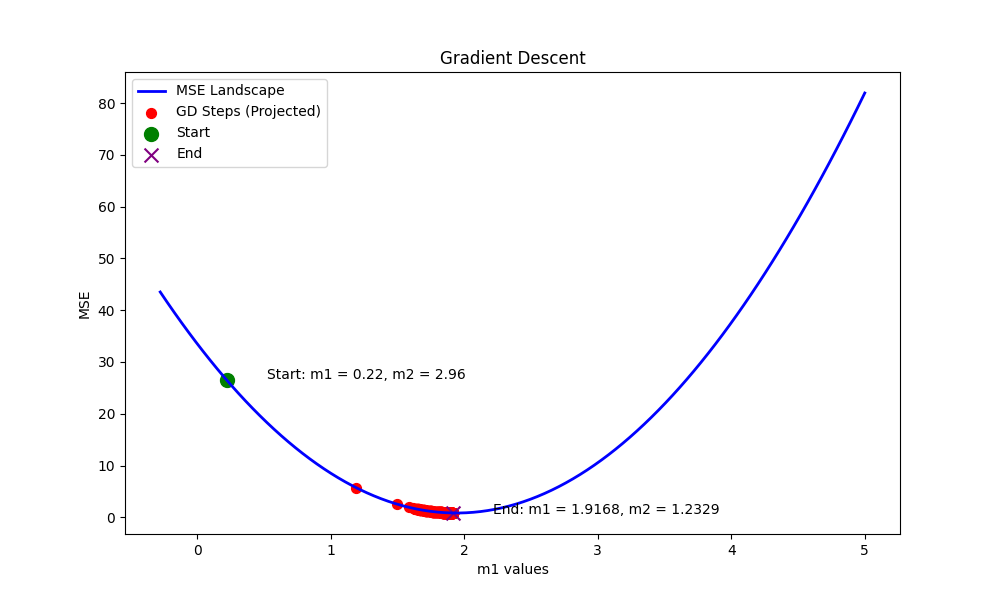
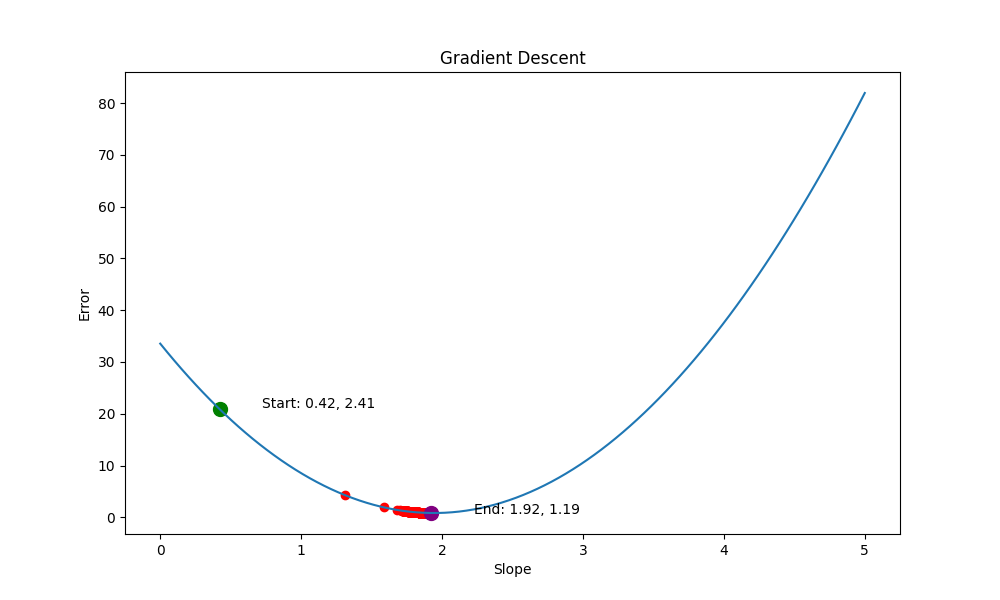
Updated Code

diff --git a/app.py b/app.py
@@ -1,158 +1,135 @@
 import numpy as np
 import matplotlib.pyplot as plt
 
-def generate_data(n_samples=100, m1_true=2.0, m2_true=1.0, random_seed=42):
-    # Data with equation y = m1*x + m2 + noise
-    np.random.seed(random_seed)
-    x = np.linspace(0, 10, n_samples)
-    noise = np.random.normal(0, 1, n_samples)
-    y = m1_true * x + m2_true + noise
+def make_data(size=100, slope=2.0, intercept=1.0, seed=42):
+    # Make data with y = slope*x + intercept + noise
+    np.random.seed(seed)
+    x = np.linspace(0, 10, size)
+    noise = np.random.normal(0, 1, size)
+    y = slope * x + intercept + noise
     return x, y
 
-def calculate_mse(x, y, m1, m2):
-    # Calculating MSE
-    y_pred = m1 * x + m2
-    return np.mean((y - y_pred) ** 2)
+def calc_error(x, y, slope, intercept):
+    # Get mean squared error
+    pred = slope * x + intercept
+    return np.mean((y - pred) ** 2)
 
-def plot_linear_search(x, y, m1_range = 0, num_points=100):
-    # Plotting MSE
-    m1_range = np.linspace(0, 5, num_points)
+def plot_search(x, y, points=100):
+    # Search through slope values and plot MSE
+    slopes = np.linspace(0, 5, points)
     
-    # Calculating optimal m2
-    m2_values = np.array([np.mean(y - m1 * x) for m1 in m1_range])
+    # Get best intercept for each slope
+    intercepts = [np.mean(y - m * x) for m in slopes]
+    errors = [calc_error(x, y, m, b) for m, b in zip(slopes, intercepts)]
     
-    # Calculating MSE for each (m1, m2) pair
-    mse_values = np.array([calculate_mse(x, y, m1, m2) 
-                          for m1, m2 in zip(m1_range, m2_values)])
+    # Find best values
+    best_idx = np.argmin(errors)
+    best_slope = slopes[best_idx]
+    best_intercept = intercepts[best_idx]
+    best_error = errors[best_idx]
     
-    best_idx = np.argmin(mse_values)
-    best_m1 = m1_range[best_idx]
-    best_m2 = m2_values[best_idx]
-    min_loss = mse_values[best_idx]
-    
-    # Plot Creation
+    # Plotting
     plt.figure(figsize=(10, 6))
-    plt.plot(m1_range, mse_values, 'b-', linewidth=2)
-    plt.scatter(best_m1, min_loss, color='red', s=100, marker='o')
-    plt.annotate(f'Best m1 = {best_m1:.4f}, m2 = {best_m2:.4f}, MSE = {min_loss:.4f}',
-                 xy=(best_m1, min_loss),
-                 xytext=(best_m1 + 0.5, min_loss + 0.1))
+    plt.plot(slopes, errors)
+    plt.scatter(best_slope, best_error, color='red', s=100)
+    plt.text(best_slope + 0.5, best_error + 0.1, 
+             f'Best: {best_slope:.2f}, {best_intercept:.2f}, MSE: {best_error:.2f}')
     
-    plt.xlabel('m1 values')
-    plt.ylabel('MSE')
+    plt.xlabel('Slope')
+    plt.ylabel('Error')
     plt.title('Linear Search')
     plt.savefig('linear_search_graph.png')
     plt.show()
     
-    return best_m1, best_m2, min_loss
+    return best_slope, best_intercept, best_error
 
-def optimal_m2_for_m1(x, y, m1):
-    # Calculating optimal m2
-    return np.mean(y - m1 * x)
+def best_intercept(x, y, slope):
+    # Get best intercept for given slope
+    return np.mean(y - slope * x)
 
-def create_mse_landscape(x, y, m1_range):
-    # Plotting MSE
-    m2_optimal = np.array([optimal_m2_for_m1(x, y, m1) for m1 in m1_range])
-    mse_values = np.array([calculate_mse(x, y, m1, m2) for m1, m2 in zip(m1_range, m2_optimal)])
-    return m2_optimal, mse_values
-
-def plot_gradient_descent(x, y, initial_m1, initial_m2, learning_rate=0.01, max_iterations=200):
-
-    initial_m1 = np.random.uniform(0, 3)
-    initial_m2 = np.random.uniform(0, 3)
+def plot_gradient_descent(x, y, learn_rate=0.01, max_iter=200):
+    # Random starting point
+    slope = np.random.uniform(0, 3)
+    intercept = np.random.uniform(0, 3)
     
-    # Initializing parameters
-    m1, m2 = initial_m1, initial_m2
+    slope_history = [slope]
+    intercept_history = [intercept]
+    error_history = [calc_error(x, y, slope, intercept)]
     
-    # Trajectory
-    m1_history = [m1]
-    m2_history = [m2]
-    mse_history = [calculate_mse(x, y, m1, m2)]
+    # Gradient descent
+    iter_count = 0
+    for i in range(max_iter):
+        iter_count += 1
+        
+        # Get prediction and error
+        pred = slope * x + intercept
+        error = y - pred
+        
+        # Calculate gradients
+        grad_slope = -2 * np.mean(x * error)
+        grad_intercept = -2 * np.mean(error)
+        
+        # Update parameters
+        slope = slope - learn_rate * grad_slope
+        intercept = intercept - learn_rate * grad_intercept
+        
+        slope_history.append(slope)
+        intercept_history.append(intercept)
+        error_history.append(calc_error(x, y, slope, intercept))
     
-    # Perform GD
-    iterations_performed = 0
-    for iteration in range(max_iterations):
-        iterations_performed += 1
-        
-        # Calculating predictions and error
-        y_pred = m1 * x + m2
-        error = y - y_pred
-        
-        # Calculating gradients
-        gradient_m1 = -2 * np.mean(x * error)
-        gradient_m2 = -2 * np.mean(error)
-        
-        # Parameters
-        m1_new = m1 - learning_rate * gradient_m1
-        m2_new = m2 - learning_rate * gradient_m2
-        
-        # Calculating MSE
-        new_mse = calculate_mse(x, y, m1_new, m2_new)
-        
-        m1, m2 = m1_new, m2_new
-        m1_history.append(m1)
-        m2_history.append(m2)
-        mse_history.append(new_mse)
-        
-    
-    # Visualization
+    # Simple error landscape plot
     plt.figure(figsize=(10, 6))
+    slopes = np.linspace(0, 5, 100)
+    errors = []
     
-    m1_min = min(0, min(m1_history) - 0.5)
-    m1_max = max(5, max(m1_history) + 0.5)
-    m1_range = np.linspace(m1_min, m1_max, 100)
+    # Calculate error curve
+    for m in slopes:
+        b = best_intercept(x, y, m)
+        err = calc_error(x, y, m, b)
+        errors.append(err)
     
-    _, optimal_mse_values = create_mse_landscape(x, y, m1_range)
+    plt.plot(slopes, errors)
     
-    optimal_trajectory_mse = []
-    for m1_val in m1_history:
-        optimal_m2 = optimal_m2_for_m1(x, y, m1_val)
-        optimal_mse = calculate_mse(x, y, m1_val, optimal_m2)
-        optimal_trajectory_mse.append(optimal_mse)
+    # Plot GD path
+    path_errors = []
+    for m in slope_history:
+        b = best_intercept(x, y, m)
+        path_errors.append(calc_error(x, y, m, b))
     
-    # MSE Plot
-    plt.plot(m1_range, optimal_mse_values, 'b-', label='MSE Landscape', linewidth=2)
-    plt.scatter(m1_history, optimal_trajectory_mse, color='red', s=50, marker='o', label='GD Steps (Projected)')
-    plt.scatter(m1_history[0], optimal_trajectory_mse[0], color='green', s=100, marker='o', label='Start')
-    plt.scatter(m1_history[-1], optimal_trajectory_mse[-1], color='purple', s=100, marker='x', label='End')
-    plt.annotate(f'Start: m1 = {m1_history[0]:.2f}, m2 = {m2_history[0]:.2f}',  xy=(m1_history[0], optimal_trajectory_mse[0]),
-                xytext=(m1_history[0] + 0.3, optimal_trajectory_mse[0] + 0.2))
+    plt.scatter(slope_history, path_errors, color='red')
+    plt.scatter(slope_history[0], path_errors[0], color='green', s=100)
+    plt.scatter(slope_history[-1], path_errors[-1], color='purple', s=100)
+    plt.text(slope_history[0] + 0.3, path_errors[0] + 0.2, 
+             f'Start: {slope_history[0]:.2f}, {intercept_history[0]:.2f}')
     
-    plt.annotate(f'End: m1 = {m1_history[-1]:.4f}, m2 = {m2_history[-1]:.4f}', xy=(m1_history[-1], optimal_trajectory_mse[-1]),
-                xytext=(m1_history[-1] + 0.3, optimal_trajectory_mse[-1] - 0.2))
+    plt.text(slope_history[-1] + 0.3, path_errors[-1] - 0.2, 
+             f'End: {slope_history[-1]:.2f}, {intercept_history[-1]:.2f}')
     
-    plt.xlabel('m1 values')
-    plt.ylabel('MSE')
-    plt.title(f'Gradient Descent')
-    plt.legend()
+    plt.xlabel('Slope')
+    plt.ylabel('Error')
+    plt.title('Gradient Descent')
     plt.savefig('gradient_descent_graph.png')
     plt.show()
     
-    return m1_history[-1], m2_history[-1], mse_history[-1], iterations_performed
+    return slope_history[-1], intercept_history[-1], error_history[-1], iter_count
 
-def main(random_seed=42):
-    np.random.seed(random_seed)
+def main(seed=42):
+    np.random.seed(seed)
     
-    # Generate data
-    x, y = generate_data(n_samples=50, m1_true=2.0, m2_true=1.0, random_seed=random_seed)
+    x, y = make_data(size=50, slope=2.0, intercept=1.0, seed=seed)
     
     # Linear search
-    ls_m1, ls_m2, ls_loss = plot_linear_search(x, y)
-    print(f"Linear Search Result: m1 = {ls_m1:.4f}, m2 = {ls_m2:.4f}, MSE = {ls_loss:.4f}")
+    ls_slope, ls_intercept, ls_error = plot_search(x, y)
+    print(f"Linear Search: slope = {ls_slope:.4f}, intercept = {ls_intercept:.4f}, MSE = {ls_error:.4f}")
     
-    # Gradient descent with random initialization
-    initial_m1 = np.random.uniform(0, 3)
-    initial_m2 = np.random.uniform(0, 3)
-    
-    gd_m1, gd_m2, gd_loss, iterations = plot_gradient_descent(
+    # Gradient descent
+    gd_slope, gd_intercept, gd_error, iters = plot_gradient_descent(
         x, y, 
-        initial_m1=initial_m1,
-        initial_m2=initial_m2,
-        learning_rate=0.01,
-        max_iterations=500
+        learn_rate=0.01,
+        max_iter=500
     )
     
-    print(f"Gradient Descent Result: m1 = {gd_m1:.4f}, m2 = {gd_m2:.4f}, MSE = {gd_loss:.4f}")
+    print(f"Gradient Descent: slope = {gd_slope:.4f}, intercept = {gd_intercept:.4f}, MSE = {gd_error:.4f}")
 
 if __name__ == "__main__":
     main()
